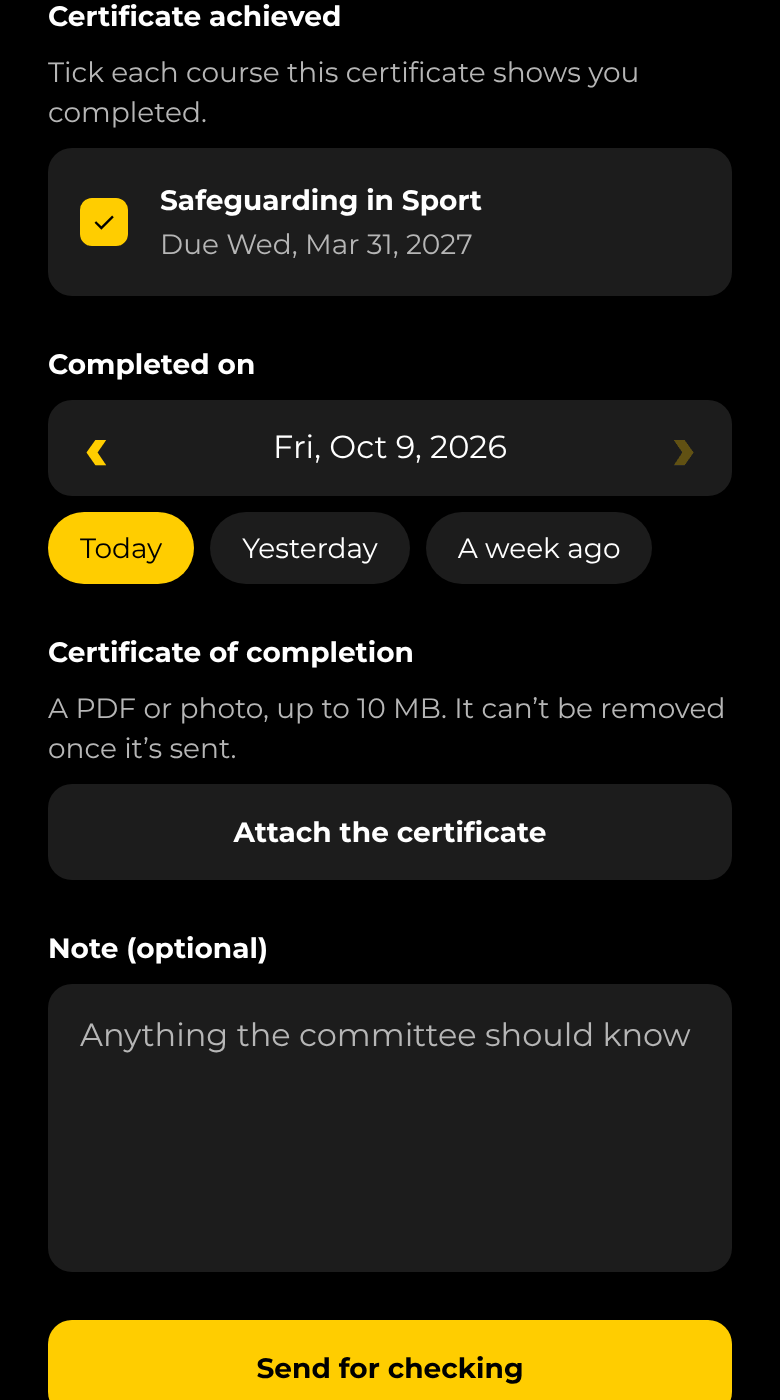
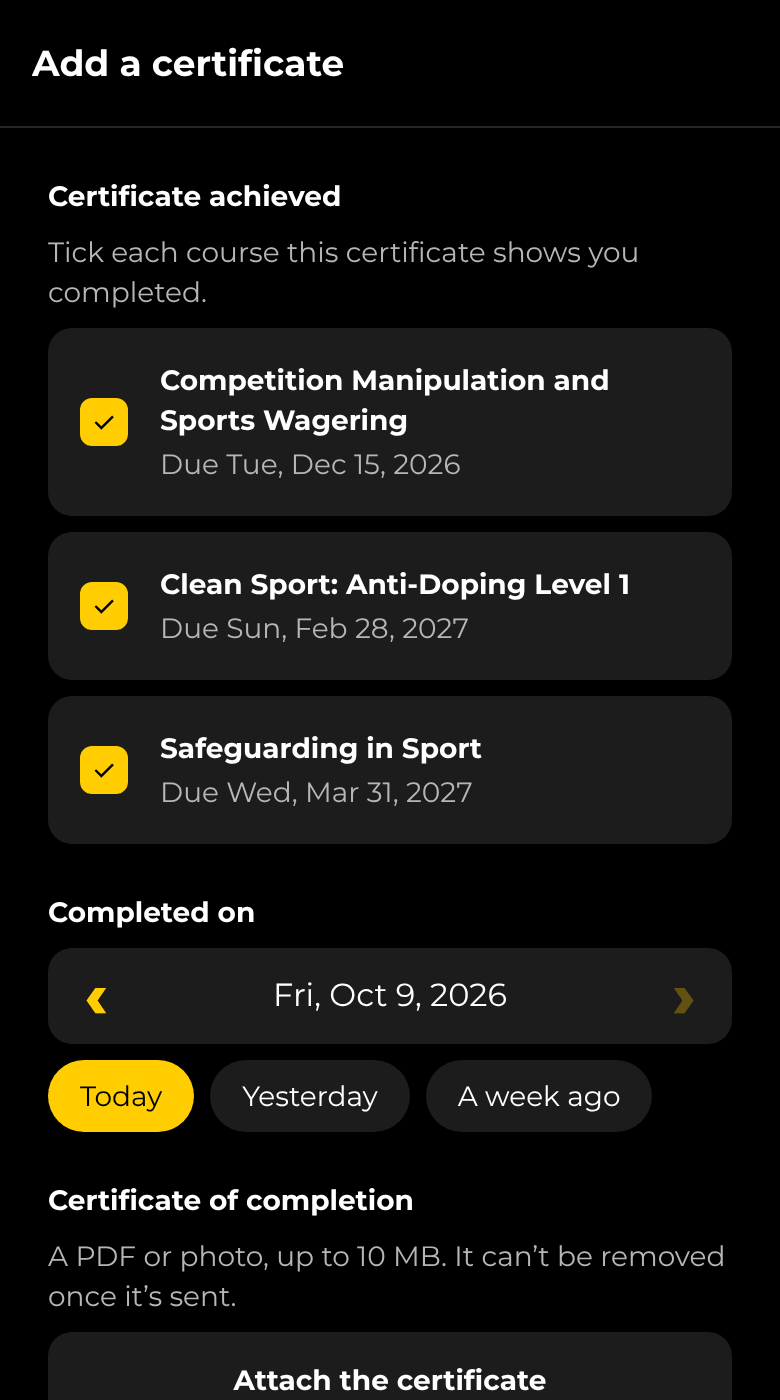
Guide: one PDF can cover several courses, shown with three ticked
Claude-Session: https://claude.ai/code/session_012jNXn4eK2QV1iszo8ETw1i

diff --git a/docs/user-guide.md b/docs/user-guide.md
@@ -322,8 +322,9 @@ Training you still need to complete shows in your **To do** list with its due da
 1. Tap **Open the course** and do the course on the provider's website. Download or photograph
    the certificate of completion at the end.
 2. In the app, tap the to-do item or **Add a certificate** on the Integrity training screen.
-3. Under **Certificate achieved**, tick each course the certificate shows you completed. One
-   certificate can cover more than one course.
+3. Under **Certificate achieved**, tick each course the certificate shows you completed. If one
+   PDF holds several certificates or badges, tick them all and attach it once: each ticked course
+   is checked with that file.
 4. Choose the day you completed it, attach the certificate (a PDF or photo, up to 10 MB), add a
    note if you like and tap **Send for checking**.
 
@@ -334,7 +335,7 @@ record. Overdue training says **Overdue since** its due date.
 
 <img src="user-guide/training-athlete-home.png" width="210" alt="Integrity training in an athlete's to-do list">
 <img src="user-guide/training-athlete.png" width="210" alt="An athlete's integrity training">
-<img src="user-guide/training-submit.png" width="210" alt="Ticking the training a certificate covers and attaching it">
+<img src="user-guide/training-submit.png" width="210" alt="One certificate ticked for three courses">
 
 ### Deleting your account
 
